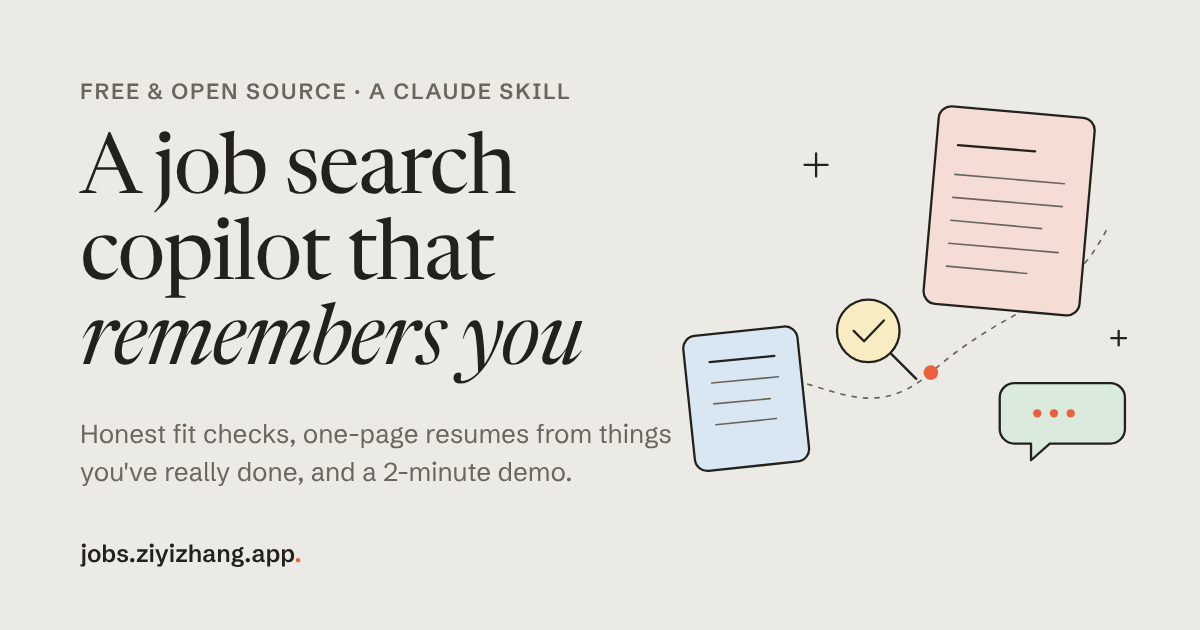
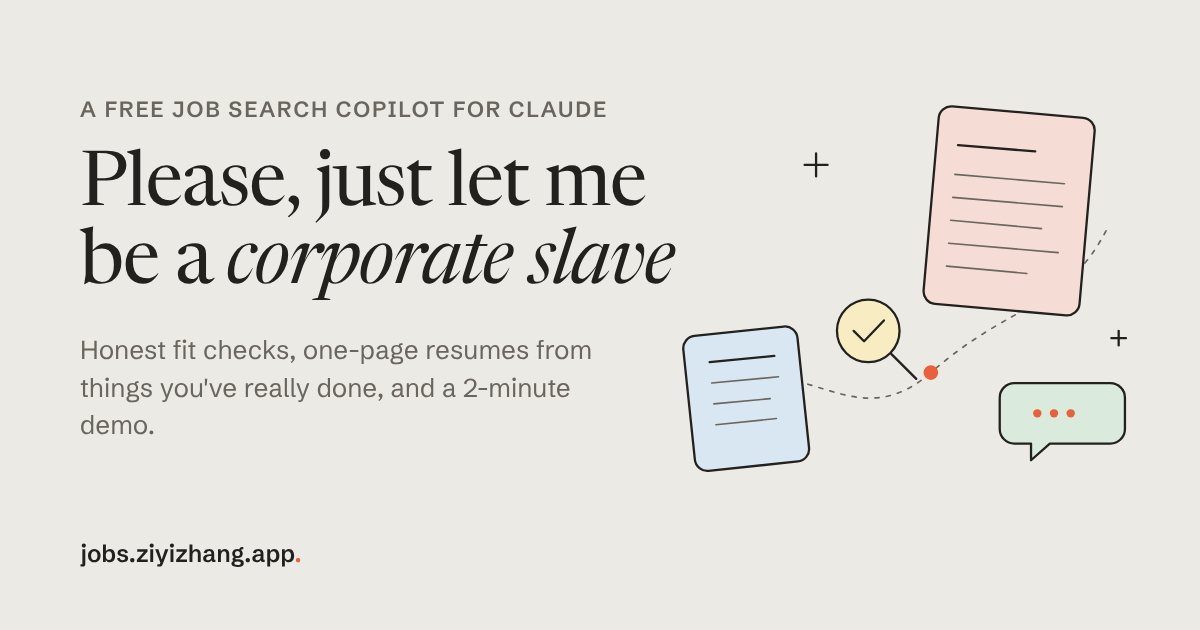
Landing page: new headline, please just let me be a corporate slave
Claude-Session: https://claude.ai/code/session_01Qj7nfFYnfK9vXyD2qryc39

Changed region(s): [[0.0617, 0.1206, 0.5858, 0.6333], [0.0617, 0.6635, 0.555, 0.7841]]

diff --git a/docs/index.html b/docs/index.html
@@ -5,7 +5,7 @@
 <link rel="canonical" href="https://jobs.ziyizhang.app/">
 <link rel="icon" type="image/png" href="/favicon-32.png"><link rel="apple-touch-icon" href="/apple-touch-icon.png">
 <meta property="og:type" content="website"><meta property="og:url" content="https://jobs.ziyizhang.app/">
-<meta property="og:title" content="Job Search Copilot by zoey z"><meta property="og:description" content="Free Claude skill for job seekers: honest fit checks, one-page resumes from things you've really done, and a 2-minute demo.">
+<meta property="og:title" content="Please, just let me be a corporate slave | Job Search Copilot"><meta property="og:description" content="Free Claude skill for job seekers: honest fit checks, one-page resumes from things you've really done, and a 2-minute demo.">
 <meta property="og:image" content="https://jobs.ziyizhang.app/og.png"><meta property="og:image:width" content="1200"><meta property="og:image:height" content="630">
 <meta name="twitter:card" content="summary_large_image"><meta name="twitter:image" content="https://jobs.ziyizhang.app/og.png">
 </head><body style="margin:0">
@@ -255,8 +255,8 @@ footer .sig .fb { display: block; margin-top: 8px; font-family: var(--sans); fon
     <div>
       <div class="eyebrow"><span lang="zh">免费开源 · 一个找工人做给找工人的 Claude skill</span><span lang="en">Free and open source · a Claude skill</span></div>
       <h1 class="serif">
-        <span lang="zh">一个会记住你的<br>AI 求职搭档</span>
-        <span lang="en">A job search copilot that <em>remembers you</em></span>
+        <span lang="zh">求求了，<br>让我当社畜吧</span>
+        <span lang="en">Please, just let me be a <em>corporate slave</em></span>
       </h1>
       <p class="lede">
         <span lang="zh">贴一个 JD，它直接告诉你值不值得投；写简历只用你真做过的事（不编数字，保证！）；投满 20 份，它会看谁真的回你了，告诉你接下来往哪使劲。</span>

diff --git a/site/index.html b/site/index.html
@@ -245,8 +245,8 @@ footer .sig .fb { display: block; margin-top: 8px; font-family: var(--sans); fon
     <div>
       <div class="eyebrow"><span lang="zh">免费开源 · 一个找工人做给找工人的 Claude skill</span><span lang="en">Free and open source · a Claude skill</span></div>
       <h1 class="serif">
-        <span lang="zh">一个会记住你的<br>AI 求职搭档</span>
-        <span lang="en">A job search copilot that <em>remembers you</em></span>
+        <span lang="zh">求求了，<br>让我当社畜吧</span>
+        <span lang="en">Please, just let me be a <em>corporate slave</em></span>
       </h1>
       <p class="lede">
         <span lang="zh">贴一个 JD，它直接告诉你值不值得投；写简历只用你真做过的事（不编数字，保证！）；投满 20 份，它会看谁真的回你了，告诉你接下来往哪使劲。</span>
